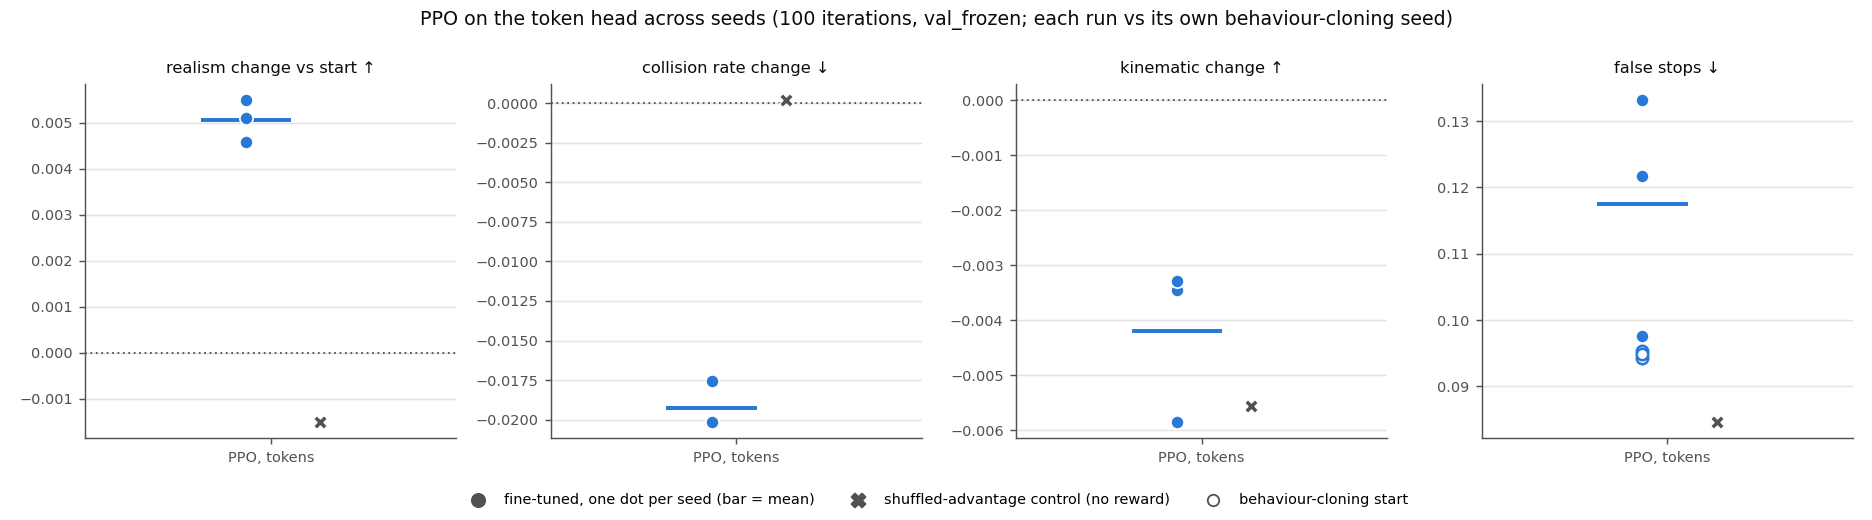
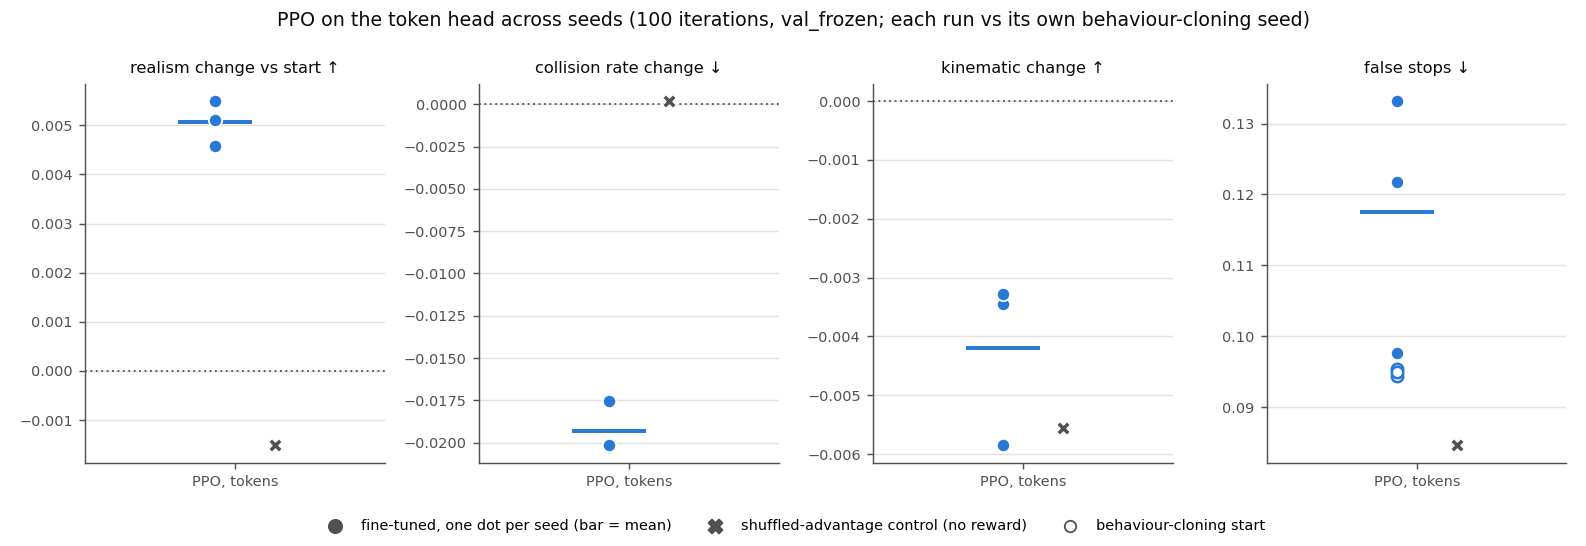
figures: add per-seed fine-tuning figure

diff --git a/src/tokens_vs_flows/figures.py b/src/tokens_vs_flows/figures.py
@@ -648,7 +648,7 @@ def rl_seeds(arms: List[Tuple[str, List[Tuple[Path, Path]], List[Tuple[Path, Pat
               ("kinematic change ↑", lambda r, s: load(r, "metrics.json")["kinematic"] - load(s, "metrics.json")["kinematic"]),
               ("false stops ↓", lambda r, s: load(r, "stopping.json")["false_stop"])]
     x = np.arange(len(arms))
-    fig, axes = plt.subplots(1, len(panels), figsize=(3.6 * len(panels), 4.0))
+    fig, axes = plt.subplots(1, len(panels), figsize=((2.2 + 0.85 * len(arms)) * len(panels), 4.2))
     for ax, (name, get) in zip(axes, panels):
         _style(ax)
         for i, (label, runs, ctrls, key) in enumerate(arms):
@@ -799,6 +799,16 @@ def main():
     if len(seed_arms[0][1]) > 1:
         rl_seeds(seed_arms, figs / "ppo_seeds.png",
                  title="PPO on the token head across seeds (100 iterations, val_frozen; each run vs its own "
+                       "behaviour-cloning seed)")
+    seed_arms += [("FPO\nflow", pairs("fpo_flow_noise", "bc_flow_noise"),
+                   pairs("fpo_shuffled_flow_noise", "bc_flow_noise"), "flow"),
+                  ("FPO + anchor\nflow", pairs("fpo_anchored_flow_noise", "bc_flow_noise"),
+                   pairs("fpo_anchored_shuffled_flow_noise", "bc_flow_noise"), "flow"),
+                  ("FPO + endpoint\nanchor, 32 draws\nflow", pairs("fpo_anchorx1_nmc32_flow_noise", "bc_flow_noise"),
+                   pairs("fpo_anchorx1_nmc32_shuffled_flow_noise", "bc_flow_noise"), "flow")]
+    if any(len(a[1]) > 1 for a in seed_arms[1:]):
+        rl_seeds(seed_arms, figs / "rl_seeds.png",
+                 title="Reward fine-tuning across seeds (100 iterations, val_frozen; each run vs its own "
                        "behaviour-cloning seed)")
     anchored = runs / f"fpo_anchored_flow_noise_s{s}"
     rows = [("behaviour cloning", runs / f"bc_flow_noise_s{s}", "bc"),
